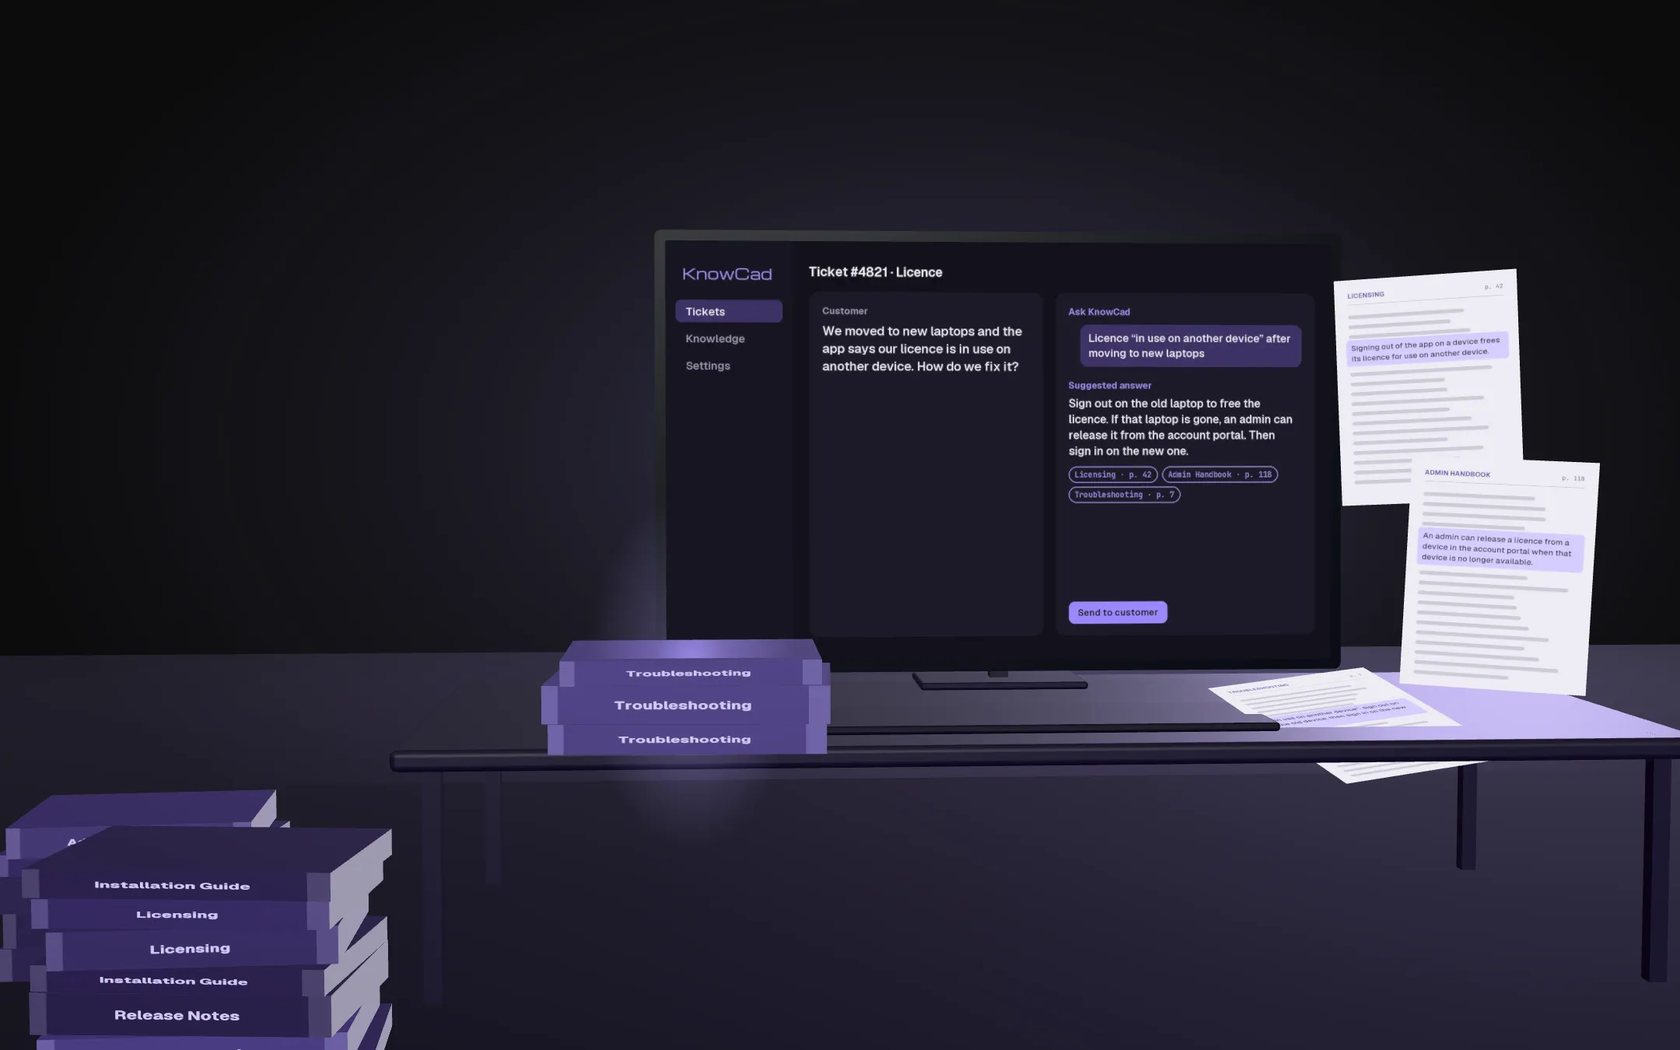
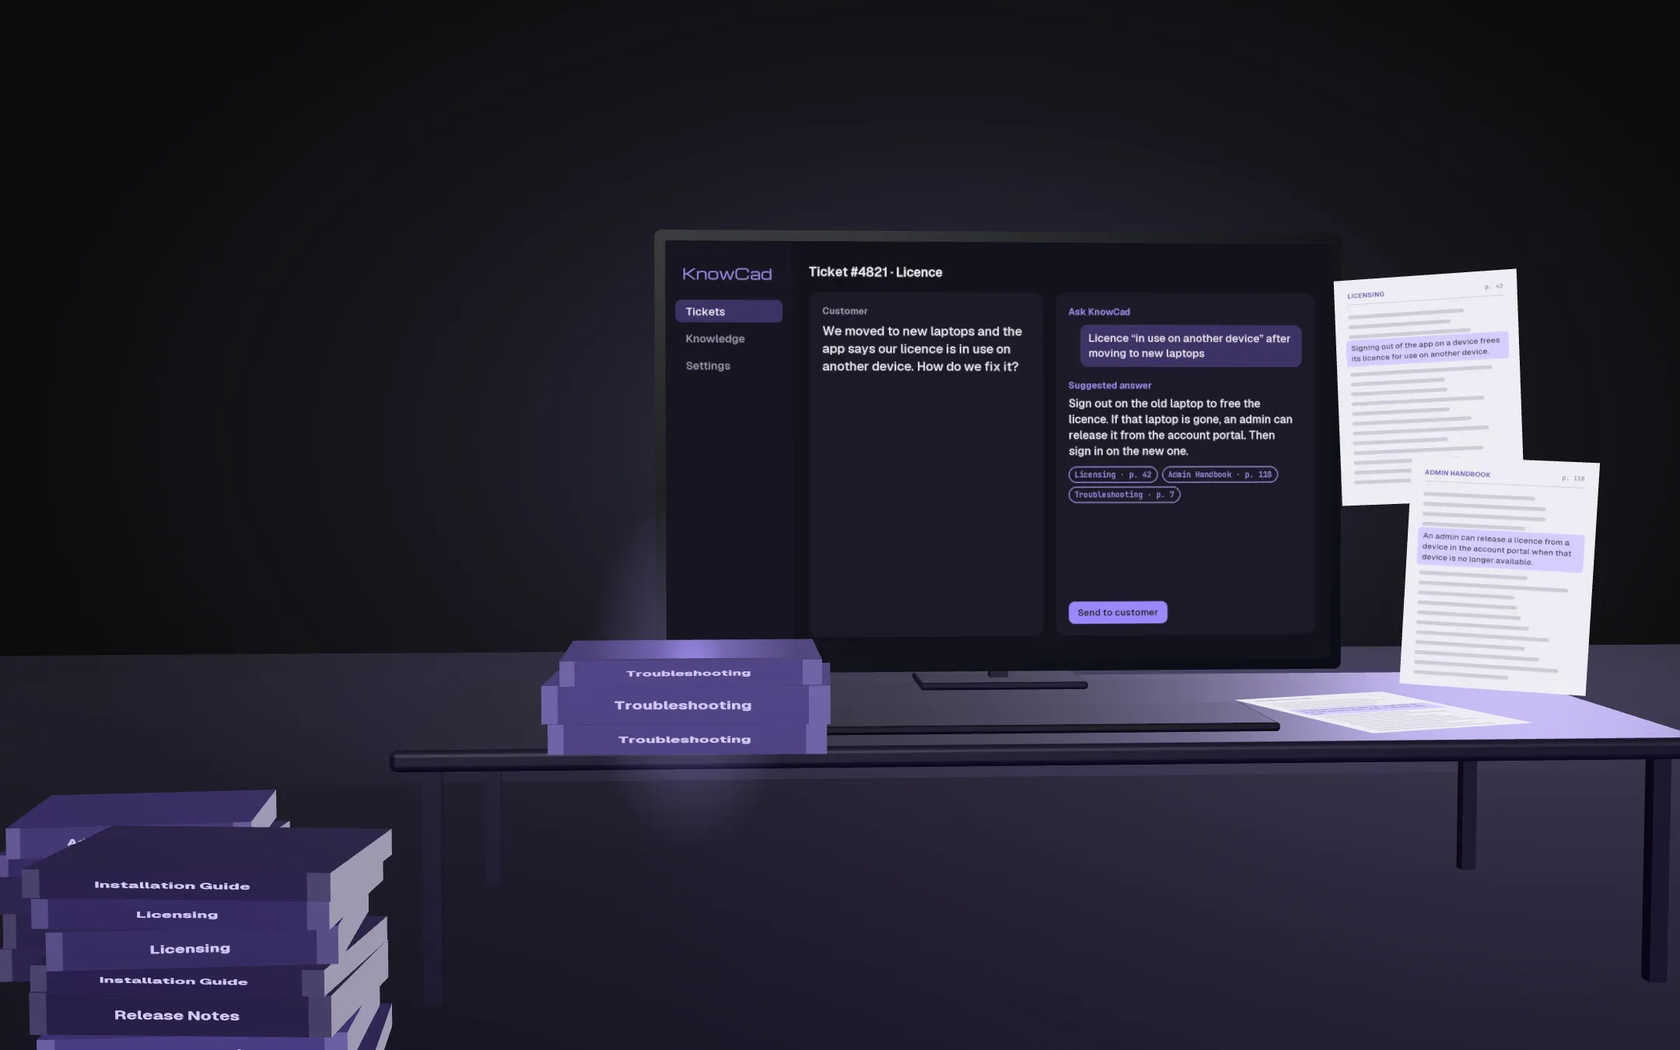
Final review fixes: no light screen left in SignalBridge's room, KnowCad's desk page lies on the desk and its pages fit a phone, the newspaper press opens the article only after its own glide, Awards reveals the photo the gallery moved to, KnowCad's whole example is called one

Changed region(s): [[0.7134, 0.6222, 0.8995, 0.7467]]

diff --git a/index.html b/index.html
@@ -23,7 +23,7 @@
   <script>document.documentElement.classList.replace('no-js','js-on')</script>
   <script src="js/script.js?v=2df72fc8" defer></script>
   <script src="js/analytics.js?v=915544e1" defer></script>
-  <script type="importmap">{"imports":{"./js/3d/awards-timeline.js":"./js/3d/awards-timeline.js?v=8ae7430a","./js/3d/awards.js":"./js/3d/awards.js?v=c3ca4909","./js/3d/board.js":"./js/3d/board.js?v=c0b76dc5","./js/3d/chapters/bcb-timeline.js":"./js/3d/chapters/bcb-timeline.js?v=956fa94d","./js/3d/chapters/better-call-bhai.js":"./js/3d/chapters/better-call-bhai.js?v=ddf2d81e","./js/3d/chapters/boss-breaker.js":"./js/3d/chapters/boss-breaker.js?v=39046857","./js/3d/chapters/boss-timeline.js":"./js/3d/chapters/boss-timeline.js?v=19648e24","./js/3d/chapters/knowcad-timeline.js":"./js/3d/chapters/knowcad-timeline.js?v=e50ef3ca","./js/3d/chapters/knowcad.js":"./js/3d/chapters/knowcad.js?v=fcdb7e00","./js/3d/chapters/meant-timeline.js":"./js/3d/chapters/meant-timeline.js?v=5269b19b","./js/3d/chapters/meant.js":"./js/3d/chapters/meant.js?v=cb46105c","./js/3d/chapters/signalbridge-timeline.js":"./js/3d/chapters/signalbridge-timeline.js?v=26504e75","./js/3d/chapters/signalbridge.js":"./js/3d/chapters/signalbridge.js?v=e2d7bb4f","./js/3d/devices.js":"./js/3d/devices.js?v=086bac31","./js/3d/ending.js":"./js/3d/ending.js?v=b8d79572","./js/3d/flap.js":"./js/3d/flap.js?v=e53ccadb","./js/3d/hero.js":"./js/3d/hero.js?v=784a0d8e","./js/3d/paths.js":"./js/3d/paths.js?v=691ca072","./js/3d/stage.js":"./js/3d/stage.js?v=6cb071e6","./js/3d/tap.js":"./js/3d/tap.js?v=58a4c4f2","./js/3d/textures.js":"./js/3d/textures.js?v=70747fdb","./js/3d/world.js":"./js/3d/world.js?v=a8dcd471","./js/home.js":"./js/home.js?v=a6caf6f4","./js/lib/capability.js":"./js/lib/capability.js?v=fd53f0ed","./js/lib/fit.js":"./js/lib/fit.js?v=d1ad86dd","./js/lib/glide.js":"./js/lib/glide.js?v=2fdf85be","./js/lib/motion.js":"./js/lib/motion.js?v=d570a3ea","./js/lib/path.js":"./js/lib/path.js?v=3d503fb9","./js/lib/physics.js":"./js/lib/physics.js?v=d11d19f2","./js/lib/scatter.js":"./js/lib/scatter.js?v=32949847","./js/lib/scrollnav.js":"./js/lib/scrollnav.js?v=d7dd1bef","./js/lib/ticker.js":"./js/lib/ticker.js?v=f0bb803b","./js/lib/watchdog.js":"./js/lib/watchdog.js?v=7e99068e","./js/vendor/lenis/lenis.min.js":"./js/vendor/lenis/lenis.min.js?v=c340ac3c","./js/vendor/three/addons/environments/RoomEnvironment.js":"./js/vendor/three/addons/environments/RoomEnvironment.js?v=1592f672","three/addons/environments/RoomEnvironment.js":"./js/vendor/three/addons/environments/RoomEnvironment.js?v=1592f672","./js/vendor/three/addons/geometries/RoundedBoxGeometry.js":"./js/vendor/three/addons/geometries/RoundedBoxGeometry.js?v=57e49d98","three/addons/geometries/RoundedBoxGeometry.js":"./js/vendor/three/addons/geometries/RoundedBoxGeometry.js?v=57e49d98","./js/vendor/three/three.module.min.js":"./js/vendor/three/three.module.min.js?v=8b618bd9","three":"./js/vendor/three/three.module.min.js?v=8b618bd9","lenis":"./js/vendor/lenis/lenis.min.js?v=c340ac3c"}}</script>
+  <script type="importmap">{"imports":{"./js/3d/awards-timeline.js":"./js/3d/awards-timeline.js?v=8ae7430a","./js/3d/awards.js":"./js/3d/awards.js?v=33cff537","./js/3d/board.js":"./js/3d/board.js?v=c0b76dc5","./js/3d/chapters/bcb-timeline.js":"./js/3d/chapters/bcb-timeline.js?v=956fa94d","./js/3d/chapters/better-call-bhai.js":"./js/3d/chapters/better-call-bhai.js?v=ddf2d81e","./js/3d/chapters/boss-breaker.js":"./js/3d/chapters/boss-breaker.js?v=39046857","./js/3d/chapters/boss-timeline.js":"./js/3d/chapters/boss-timeline.js?v=19648e24","./js/3d/chapters/knowcad-timeline.js":"./js/3d/chapters/knowcad-timeline.js?v=e50ef3ca","./js/3d/chapters/knowcad.js":"./js/3d/chapters/knowcad.js?v=e171492a","./js/3d/chapters/meant-timeline.js":"./js/3d/chapters/meant-timeline.js?v=5269b19b","./js/3d/chapters/meant.js":"./js/3d/chapters/meant.js?v=3fb6de5d","./js/3d/chapters/signalbridge-timeline.js":"./js/3d/chapters/signalbridge-timeline.js?v=26504e75","./js/3d/chapters/signalbridge.js":"./js/3d/chapters/signalbridge.js?v=4f93d42e","./js/3d/devices.js":"./js/3d/devices.js?v=086bac31","./js/3d/ending.js":"./js/3d/ending.js?v=b8d79572","./js/3d/flap.js":"./js/3d/flap.js?v=e53ccadb","./js/3d/hero.js":"./js/3d/hero.js?v=784a0d8e","./js/3d/paths.js":"./js/3d/paths.js?v=260a71d3","./js/3d/stage.js":"./js/3d/stage.js?v=6cb071e6","./js/3d/tap.js":"./js/3d/tap.js?v=58a4c4f2","./js/3d/textures.js":"./js/3d/textures.js?v=70747fdb","./js/3d/world.js":"./js/3d/world.js?v=cc68d78d","./js/home.js":"./js/home.js?v=a6caf6f4","./js/lib/capability.js":"./js/lib/capability.js?v=fd53f0ed","./js/lib/fit.js":"./js/lib/fit.js?v=d1ad86dd","./js/lib/glide.js":"./js/lib/glide.js?v=2fdf85be","./js/lib/motion.js":"./js/lib/motion.js?v=d570a3ea","./js/lib/path.js":"./js/lib/path.js?v=3d503fb9","./js/lib/physics.js":"./js/lib/physics.js?v=d11d19f2","./js/lib/scatter.js":"./js/lib/scatter.js?v=32949847","./js/lib/scrollnav.js":"./js/lib/scrollnav.js?v=d7dd1bef","./js/lib/ticker.js":"./js/lib/ticker.js?v=f0bb803b","./js/lib/watchdog.js":"./js/lib/watchdog.js?v=7e99068e","./js/vendor/lenis/lenis.min.js":"./js/vendor/lenis/lenis.min.js?v=c340ac3c","./js/vendor/three/addons/environments/RoomEnvironment.js":"./js/vendor/three/addons/environments/RoomEnvironment.js?v=1592f672","three/addons/environments/RoomEnvironment.js":"./js/vendor/three/addons/environments/RoomEnvironment.js?v=1592f672","./js/vendor/three/addons/geometries/RoundedBoxGeometry.js":"./js/vendor/three/addons/geometries/RoundedBoxGeometry.js?v=57e49d98","three/addons/geometries/RoundedBoxGeometry.js":"./js/vendor/three/addons/geometries/RoundedBoxGeometry.js?v=57e49d98","./js/vendor/three/three.module.min.js":"./js/vendor/three/three.module.min.js?v=8b618bd9","three":"./js/vendor/three/three.module.min.js?v=8b618bd9","lenis":"./js/vendor/lenis/lenis.min.js?v=c340ac3c"}}</script>
   <script type="module" src="./js/home.js?v=a6caf6f4"></script>
   <script type="application/ld+json">{"@context": "https://schema.org", "@type": "Person", "name": "Mruthulan Senthil Nathan", "alternateName": ["Mruthulan", "Senthil Nathan Mruthulan"], "url": "https://mruthulan.com/", "jobTitle": "Software developer and IT student", "affiliation": {"@type": "CollegeOrUniversity", "name": "Singapore Polytechnic"}, "address": {"@type": "PostalAddress", "addressCountry": "SG"}, "sameAs": ["https://www.linkedin.com/in/mruthulan/", "https://github.com/mru34"]}</script>
 </head>
@@ -110,7 +110,7 @@
       <section class="chapter" data-scene="knowcad" data-side="left" style="--c:#9B87FF;--name-font:'Name KnowCad'" aria-labelledby="ch-kc">
         <span class="ch-key" id="work-kc"></span>
         <div class="pin">
-          <div class="ch-stage"><picture class="still"><source media="(max-width: 860px)" srcset="assets/3d/stills/knowcad-phone.webp" width="780" height="1688"><img src="assets/3d/stills/knowcad-desk.webp" width="2160" height="1350" alt="KnowCad at a support rep’s desk: a customer asks why their licence shows as in use on another device, and KnowCad’s suggested answer cites three manuals pulled from the shelves around the desk, Licensing p. 42, Admin Handbook p. 118 and Troubleshooting p. 7. An example question." decoding="async" loading="lazy"></picture><a class="ch-hit" href="knowcad.html" tabindex="-1" aria-hidden="true" data-event="case_open" data-project="kc"></a></div>
+          <div class="ch-stage"><picture class="still"><source media="(max-width: 860px)" srcset="assets/3d/stills/knowcad-phone.webp" width="780" height="1688"><img src="assets/3d/stills/knowcad-desk.webp" width="2160" height="1350" alt="KnowCad at a support rep’s desk: a customer asks why their licence shows as in use on another device, and KnowCad’s suggested answer cites three manuals pulled from the shelves around the desk, Licensing p. 42, Admin Handbook p. 118 and Troubleshooting p. 7. The question, manuals and answer are an example." decoding="async" loading="lazy"></picture><a class="ch-hit" href="knowcad.html" tabindex="-1" aria-hidden="true" data-event="case_open" data-project="kc"></a></div>
           <div class="info">
             <p class="ch-num">05</p>
             <h3 class="ch-name" id="ch-kc" style="view-transition-name:t-kc"><a href="knowcad.html" data-event="case_open" data-project="kc">KnowCad</a></h3>

diff --git a/js/3d/world.js b/js/3d/world.js
@@ -174,11 +174,14 @@ export function createWorld(stage, { sections, form }) {
     top(name) { const i = sections.findIndex((x) => x.name === name); return i < 0 ? 0 : spans[i][0] - scrollY; },
     shake(a) { shakeS.velocity += a; stage.invalidate(); },
     // the camera glides toward `point` over `ms` and holds there; the scroll (or coming back to the page) takes it back
+    // it resolves with how it ended: 'done', 'scrolled' (the visitor scrolled away), 'restored' (the page came back
+    // from the browser's cache) or 'replaced' (another glide started)
     glideTo(point, ms = 600) {
-      if (glide) glide.resolve(false);
+      if (glide) glide.resolve('replaced');
       return new Promise((resolve) => { glide = { to: point.toArray(), t: 0, ms, y: scrollY, resolve, done: false }; stage.invalidate(); });
     },
-    endGlide() { if (glide) { glide.resolve(false); glide = null; stage.invalidate(); } },
+    endGlide(why = 'ended') { if (glide) { glide.resolve(why); glide = null; stage.invalidate(); } },
+    glideT: () => (glide ? glide.t : null),   // how far the glide is (0..1), or null when there is none
     debugGlide: () => (glide ? glide.t : null),
     ray(clientX, clientY) {
       const r = new THREE.Raycaster();
@@ -216,6 +219,7 @@ export function createWorld(stage, { sections, form }) {
       return { ok: off < 1e-3, off };
     },
     get form() { return form0; },
+    debugBuilding: () => pending.size,   // scenes still being built
     onRestore: null,
     // where the page is: the section across the middle of the screen and the time into it, in screens
     debugPlace() {
@@ -250,14 +254,14 @@ export function createWorld(stage, { sections, form }) {
       busy = lookY.step(dt) || busy;
       busy = shakeS.step(dt) || busy;
       if (glide) {
-        if (Math.abs(y - glide.y) > 2) api.endGlide();
+        if (Math.abs(y - glide.y) > vh * 0.25) api.endGlide('scrolled');   // a smooth scroll's last few pixels do not count
         else {
           glide.t = Math.min(1, glide.t + (dt || 16) / glide.ms);
           const g = glidePose(camPos.toArray(), camAt.toArray(), glide.to, glide.t, GLIDE_NEAR);
           camPos.fromArray(g.pos);
           camAt.fromArray(g.at);
           if (glide.t < 1) busy = true;
-          else if (!glide.done) { glide.done = true; glide.resolve(true); }
+          else if (!glide.done) { glide.done = true; glide.resolve('done'); }
         }
       }
       camera.position.copy(camPos);
@@ -302,7 +306,7 @@ export function createWorld(stage, { sections, form }) {
     stage.invalidate();
   });
   // back to the page from the browser's cache (after the newspaper's glide opened the article): the scroll's pose
-  addEventListener('pageshow', (e) => { if (e.persisted) api.endGlide(); });
+  addEventListener('pageshow', (e) => { if (e.persisted) api.endGlide('restored'); });
   // crossing the phone breakpoint rebuilds the scenes for that form (phone camera keys, fewer objects)
   const narrow = matchMedia('(max-width: 860px)');
   narrow.addEventListener('change', () => {

diff --git a/js/3d/awards.js b/js/3d/awards.js
@@ -108,14 +108,21 @@ export async function mount({ world, stage, section }) {
   let k = stage.view.k;
   const reorder = (s, top) => { s.order = s.prints.map((_, j) => (j + top) % s.prints.length); };
   // the gallery script (js/script.js) is the one source of truth: it moves data-on and tells us
+  // a slide out of the front photo; the photo to show next is put straight behind it first (out of sight), so the
+  // slide reveals that one, whichever way the gallery moved
+  function startSlide(s, dir, fromX, fromZ) {
+    const target = s.pending;
+    if (target !== undefined && s.order[0] !== target) s.order = [s.order[0], target, ...s.order.slice(1).filter((k) => k !== target)];
+    s.slide = { t: 0, dir, fromX, fromZ, pi: s.order[0] };
+    stage.invalidate();
+  }
   function onGal(s, e) {
     if (s.fromDrag) { s.fromDrag = false; reorder(s, e.detail.index); return; }
     s.pending = e.detail.index;
-    if (s.slide) return;   // the latest press wins when this slide lands
+    if (s.slide) return;   // this slide lands first, then the next one runs on to the latest press
     s.drag = null;
     s.back = null;
-    s.slide = { t: 0, dir: 1, fromX: 0, fromZ: REST_Z, pi: s.order[0] };
-    stage.invalidate();
+    startSlide(s, 1, 0, REST_Z);
   }
   const listeners = [];
   const on = (el, type, fn, opts) => { el.addEventListener(type, fn, opts); listeners.push([el, type, fn, opts]); };
@@ -162,6 +169,9 @@ export async function mount({ world, stage, section }) {
     boardText: (i) => frames[i].board.text(),
     resting: (i) => !frames[i].slide && !frames[i].drag && !frames[i].back,
     topPhoto: (i) => frames[i].shots[frames[i].order[0]].dataset.photo,
+    slideT: (i) => (frames[i].slide ? frames[i].slide.t : null),
+    // the photo showing in the window: mid-slide, the one being revealed behind the front
+    revealed: (i) => frames[i].shots[frames[i].order[frames[i].slide ? 1 : 0]].dataset.photo,
   };
   return {
     group,
@@ -216,7 +226,11 @@ export async function mount({ world, stage, section }) {
           if (s.slide.t >= 1) {
             s.slide = null;
             if (s.byHand) { s.byHand = false; s.fromDrag = true; s.pending = undefined; s.next.click(); }   // the gallery moves on (and tells us)
-            else if (s.pending !== undefined) { reorder(s, s.pending); s.pending = undefined; }
+            else {
+              s.order = [...s.order.slice(1), s.order[0]];   // the front goes to the back; the revealed photo is in front
+              if (s.pending !== undefined && s.pending !== s.order[0]) startSlide(s, 1, 0, REST_Z);   // on to a later press
+              else s.pending = undefined;
+            }
           }
         }
         if (s.back && s.back.t >= 1) s.back = null;

diff --git a/js/3d/chapters/meant.js b/js/3d/chapters/meant.js
@@ -167,17 +167,32 @@ export async function mount({ world, stage, section, origin, form }) {
   // pressing the paper (or its link) glides the camera into it, then opens the article; a new-tab click, or
   // reduced motion, is left to the browser
   const reduced = matchMedia('(prefers-reduced-motion: reduce)');
-  let leaving = false;
+  let leaving = false, pressId = 0;
   const onPress = async (e) => {
     if (e.button !== 0 || e.metaKey || e.ctrlKey || e.shiftKey || e.altKey || reduced.matches) return;
     e.preventDefault();
     if (leaving) return;
     leaving = true;
-    await world.glideTo(news.top.getWorldPosition(new THREE.Vector3()), 600);
-    leaving = false;
+    const id = ++pressId;
+    // if the 3D stops mid-glide (it falls back to the stills, say), the glide stops moving: go anyway
+    let watch = 0;
+    const stalled = new Promise((r) => {
+      let last = -1, still = 0;
+      watch = setInterval(() => {
+        const t = world.glideT();
+        if (t === null || t >= 1) { clearInterval(watch); return; }
+        if (t !== last) { last = t; still = 0; } else if (++still >= 3) { clearInterval(watch); r('stalled'); }
+      }, 250);
+    });
+    const why = await Promise.race([world.glideTo(news.top.getWorldPosition(new THREE.Vector3()), 600), stalled]);
+    clearInterval(watch);
+    if (id !== pressId || why === 'restored') return;   // the visitor came back to this page meanwhile
     location.href = pressLink.href;
   };
+  // back from the article (the browser's cache): this page stays, and a press can glide again
+  const onShow = (e) => { if (e.persisted) { pressId += 1; leaving = false; } };
   pressLink.addEventListener('click', onPress);
+  addEventListener('pageshow', onShow);
   const offTap = onTap(pin, (e) => {
     if (e.target.closest('a, button')) return;
     const hit = ndcHit(e, [...tileMeshes, news.group]);
@@ -250,6 +265,7 @@ export async function mount({ world, stage, section, origin, form }) {
     dispose() {
       offTap();
       pressLink.removeEventListener('click', onPress);
+      removeEventListener('pageshow', onShow);
       pin.removeEventListener('pointermove', onMove);
       pin.style.cursor = '';
       buttons.forEach((b) => { b.removeEventListener('click', onClick); b.removeEventListener('focus', onFocus); b.removeEventListener('blur', onBlur); });

diff --git a/js/3d/chapters/knowcad.js b/js/3d/chapters/knowcad.js
@@ -27,7 +27,7 @@ const PART_R = 2.0;
 const REST = [
   { p: [4.0, 0.95, -32.9], r: [0, -0.35, 0.05] },
   { p: [4.35, -0.2, -32.6], r: [0, -0.3, -0.04] },
-  { p: [3.2, DESK.y + 0.02, -31.8], r: [-Math.PI / 2 + 0.25, 0, 0.3] },
+  { p: [3.5, DESK.y + 0.005, -32.3], r: [-Math.PI / 2, 0, 0.3] },   // flat on the desk, clear of the keyboard
 ];
 
 // four loose pages of generic text (bars, no words) in one atlas
@@ -268,6 +268,23 @@ export async function mount({ world, stage, section, origin, form }) {
     forward: (i) => pages[i].fwd.value,
     pulled: () => Math.max(0, ...[...pulls.values()].map((s) => s.value)),
     anchors: { manual: matched[2].pos.clone().add(origin) },
+    // the page that lands on the desk: its lowest point and front edge against the desk's top and front edge
+    deskPage() {
+      const b = new THREE.Box3().setFromObject(pages[2].m);
+      return { bottom: b.min.y - origin.y, desk: DESK.y, front: b.max.z - origin.z, edge: DESK.z + 0.3 + 1.5 };
+    },
+    // each source page's box on screen, in CSS pixels
+    pageBoxes() {
+      return pages.map((p) => {
+        const b = new THREE.Box3().setFromObject(p.m);
+        const xs = [], ys = [];
+        for (const x of [b.min.x, b.max.x]) for (const y of [b.min.y, b.max.y]) for (const z of [b.min.z, b.max.z]) {
+          const v = new THREE.Vector3(x, y, z).project(stage.camera);
+          xs.push(((v.x + 1) / 2) * stage.view.w); ys.push(((1 - v.y) / 2) * stage.view.h);
+        }
+        return { l: Math.round(Math.min(...xs)), r: Math.round(Math.max(...xs)), t: Math.round(Math.min(...ys)), b: Math.round(Math.max(...ys)) };
+      });
+    },
   };
   pages.forEach((p, i) => Object.defineProperty(debug.anchors, `source${i}`, { get: () => p.m.getWorldPosition(new THREE.Vector3()) }));
 

diff --git a/js/3d/paths.js b/js/3d/paths.js
@@ -50,8 +50,8 @@ export const KEYS = {
     { t: -0.4, at: [0, 0.2, -4], from: [0, 0.02, 1], d: 10 },
     { t: -0.1, at: [0.3, 0.3, -14], from: [0.04, 0.03, 1], d: 8 },
     { t: 0.15, at: [1.0, 0.2, -26], from: [0.02, 0.04, 1], d: 7 },
-    { t: 0.42, at: [0.3, 0.1, -33], from: [-0.06, 0.05, 1], w: 10.5, h: 6.5, stop: true, phone: { at: [1.6, -0.8, -33], w: 5.6, h: 9 } },
-    { t: 0.6, at: [0.3, 0.1, -33], from: [-0.06, 0.05, 1], w: 10.5, h: 6.5, stop: true, phone: { at: [1.6, -0.8, -33], w: 5.6, h: 9 } },
+    { t: 0.42, at: [0.3, 0.1, -33], from: [-0.06, 0.05, 1], w: 10.5, h: 6.5, stop: true, phone: { at: [2.0, -1.0, -33], w: 7.4, h: 11.8 } },
+    { t: 0.6, at: [0.3, 0.1, -33], from: [-0.06, 0.05, 1], w: 10.5, h: 6.5, stop: true, phone: { at: [2.0, -1.0, -33], w: 7.4, h: 11.8 } },
     { t: 0.65, at: [1.5, -2.5, -36], from: [0, 0.6, 1], d: 12 },   // leaves early: the flight onto the Awards wall runs to 1.0
   ],
 };

diff --git a/js/3d/chapters/signalbridge.js b/js/3d/chapters/signalbridge.js
@@ -25,7 +25,7 @@ const WALL = [
   ['sb-wall-cases', 2.9, 3.5, 0.95, -3.2, false],
   ['sb-wall-supervisor', 4.2, -5.8, 2.3, -6.8, true],
   ['sb-wall-handoffs', 4.0, 0, 2.4, -7.2, true],
-  ['sb-phone-preview', 1.3, 5.6, 1.7, -6.6, true],
+  ['sb-phone-notified', 1.3, 5.6, 1.7, -6.6, true],   // the youth's chat (dark), not the white preview
 ];
 
 export async function mount({ world, stage, section, origin, form }) {

diff --git a/tests/test_assets.py b/tests/test_assets.py
@@ -45,7 +45,7 @@ def test_signalbridge_textures_exist_within_their_sizes(name, limit):
 
 
 SB_WALL = {'sb-wall-radar': (1280, 800), 'sb-wall-cases': (1280, 800), 'sb-wall-chat': (1280, 800),
-           'sb-wall-supervisor': (1280, 800), 'sb-wall-handoffs': (1280, 800), 'sb-phone-preview': (768, 1662)}
+           'sb-wall-supervisor': (1280, 800), 'sb-wall-handoffs': (1280, 800)}
 
 
 @pytest.mark.parametrize('name,limit', SB_WALL.items())
@@ -72,6 +72,18 @@ def test_no_signalbridge_wall_screen_is_light():
     for p in walls:
         with Image.open(p) as im:
             assert ImageStat.Stat(im.convert('L')).mean[0] < 70, p.name
+
+
+def test_every_screen_in_the_signalbridge_room_is_dark():
+    """Read the room's screens from the scene itself, so a light one hung there under any name is caught."""
+    from PIL import Image, ImageStat
+    js = (ROOT / 'js' / '3d' / 'chapters' / 'signalbridge.js').read_text(encoding='utf-8')
+    block = js.split('const WALL = [')[1].split('];')[0]
+    names = re.findall(r"\['([a-z0-9-]+)',", block)
+    assert len(names) >= 5, names
+    for n in names:
+        with Image.open(ROOT / 'assets' / '3d' / f'{n}.webp') as im:
+            assert ImageStat.Stat(im.convert('L')).mean[0] < 70, n
 
 
 MIN_WIDTH = {'bx-display': 1600, 'bx-leaderboard': 1271, 'bx-phone': 768}

diff --git a/design/build_site.py b/design/build_site.py
@@ -750,7 +750,7 @@ CHAPTERS = [
          font='Name KnowCad', still='win-knowcad-champion',
          alt='KnowCad at a support rep’s desk: a customer asks why their licence shows as in use on another '
              'device, and KnowCad’s suggested answer cites three manuals pulled from the shelves around the desk, '
-             'Licensing p. 42, Admin Handbook p. 118 and Troubleshooting p. 7. An example question.',
+             'Licensing p. 42, Admin Handbook p. 118 and Troubleshooting p. 7. The question, manuals and answer are an example.',
          extra=f'<p class="kc-q" aria-hidden="true"><span data-typed>{e(KC_QUERY)}</span>'
                f'<i class="kc-caret"></i></p><p class="sr-only">{e(KC_QUERY)}</p>'),
 ]

diff --git a/design/build_3d_assets.py b/design/build_3d_assets.py
@@ -438,7 +438,6 @@ def main():
                            ('d-youth-chat', 'sb-wall-chat', CHAT_CROP), ('d-worker-handoffs', 'sb-wall-handoffs', DESK_CROP),
                            ('d-supervisor', 'sb-wall-supervisor', SUPERVISOR_CROP)):
         save(fit_crop(sb / f'{raw}.png', box, (1280, 800)), name)
-    save(fit_crop(sb / 'm-youth-preview.png', PHONE_CROP, (768, 1662)), 'sb-phone-preview')
 
     bx = RAW / 'bx'
     # sized to 1.5x their largest size on screen, so each goes to the GPU without stalling a frame

diff --git a/tests/test_site.py b/tests/test_site.py
@@ -230,7 +230,7 @@ def test_knowcad_asks_its_question_in_full_without_the_3d():
     q = 'Licence “in use on another device” after moving to new laptops'
     assert f'<span data-typed>{q}</span>' in sec
     assert f'<p class="sr-only">{q}</p>' in sec
-    assert 'An example question' in sec and 'private' not in sec.lower()
+    assert 'The question, manuals and answer are an example.' in sec and 'private' not in sec.lower()
 
 
 def test_awards_are_three_stacks_with_their_placing_boxes_and_no_carousel():
